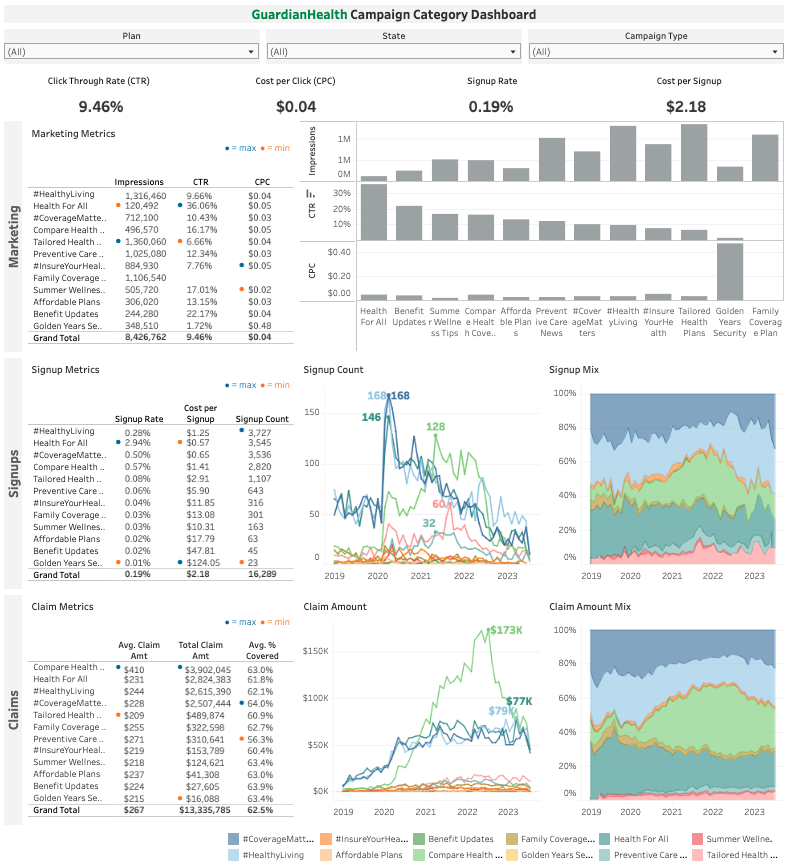
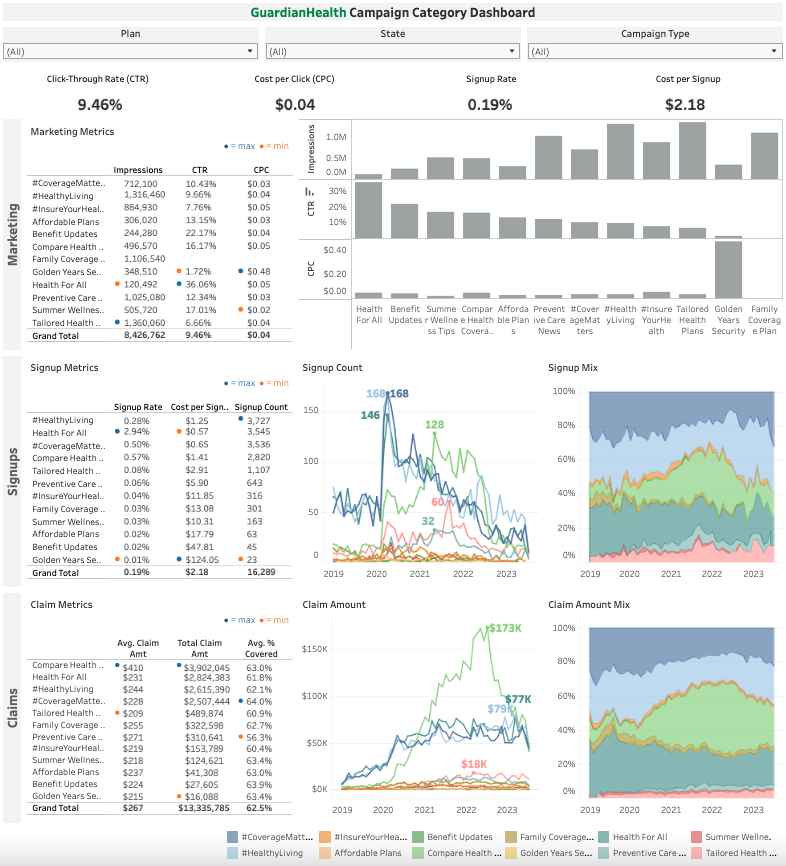
update README, dashboard snapshot

diff --git a/README.md b/README.md
@@ -9,7 +9,6 @@ A link to the interactive dashboard is [here](https://public.tableau.com/app/pro
   <img width="120%" src="imgs/dashboard_overview.png"><br>
 </p>
 
-
 ## Dataset Structure
 
 The dataset contains 49,998 records across 3 tables, as shown in the ERD below. 
@@ -18,7 +17,6 @@ The dataset contains 49,998 records across 3 tables, as shown in the ERD below.
   <img width="50%" src="imgs/guardianhealth_erd.png"><br>
 <sub>Entity relationship diagram (ERD) of GuardianHealth's marketing data.</sub>
 </p>
-
 
 ## North Star Metrics
 * Click-through rate (CTR)
@@ -30,7 +28,34 @@ The dataset contains 49,998 records across 3 tables, as shown in the ERD below.
 * Claim amount (average and total)
 
 ## Summary of Insights
-[work in progress]
+
+### Marketing metrics: Click-Through Rate, Cost per Click, and Impressions
+* Across all plans, the *Health For All* campaign category has the **highest click-through rate at 36%**, far surpassing the average CTR of 9.5%, even though it has the **lowest number of total impressions** across categories at 120K impressions. 
+
+* The *Golden Years Security* campaign category has the **lowest CTR at 1.7%**; due to its low number of clicks, in proportion to the cost of the campaign, it has an **abnormally high cost per click value of $0.48**. The rest of the campaigns appear to be more appropriately budgeted, all having CPCs ranging from $0.02 - $0.05. 
+
+* The top 4 campaign categories that broke **1M+ in impressions** are *Tailored Health Plans, #HealthyLiving, Family Coverage Plan,* and *Preventive Care News*.
+
+### Signup metrics:
+* *Health For All* had the **highest signup rate across cateogries at ~3%** -- substantially higher than the average signup rate of 0.19% -- and lowest cost per signup. *Golden Years Security* had the **lowest signup rate at 0.01%** and its cost per signup at $123 is more than **an order of magnitude higher than the average** across all categories. 
+
+* Many categories saw a significant spike in signups at the start of the pandemic. 3 categories (*#CoverageMatters, #HealthyLiving, Health For All*) drove record-high signups in April 2020 and accounted for the majority of signups early in the pandemic, while categories like *Compare Health Coverage* and *Tailored Health Plans* reached record-high signups later in the pandemic and drove a greater share of signups in the second half of 2021. This may potentially reflect customers' shifting healthcare coverage preferences throughout the pandemic, from a focus on comprehensive coverage in the early stages of the pandemic to more interest in personalization and choice in the later stages.  
+
+* While the pandemic helped to boost signups, signup counts from most categories significantly decreased starting in mid-2022, and falling to levels below pre-pandemic values. The *#Coverage Matters* and *#HealthyLiving* marketing categories appear to be more resilient to post-pandemic downward trends, accounting for the bulk of signups (~58%) in recent months. 
+
+### Claim metrics:
+* Claim amounts rose at the start of the pandemic and have remained steady over time across most campaign categories, with the notable difference being claims from customers marketed through the *Compare Health Coverage* campaign. The total claim amounts submitted by these customers steadily increased throughout 2021 and into 2022, reaching a record-high of $173K in July 2022 before significantly decreasing in the following months. These customers submitted the **most expensive claims on average at $410 per claim**, ~50% higher than the average claim amount of $267.  
+
+* Bronze plans offer the lowest average claim coverage rate at 51%, followed by silver (62%), gold (71%), and platinum (80%). **Silver plans are the most popular plan type** and silver plan customers account for 85% of the total amount claimed to-date.
 
 ## Recommendations
-[work in progress]
+* *Double down on winning campaigns*: The *Health For All* campaign has the highest CTR, signup rate, and lowest cost per signup; increase budget allocation for this campaign category and consider ways to increase its reach (e.g., different marketing channels, targeting broader demographics). Maintain or increase budget allocation for *#CoverageMatters* and *#HealthyLiving* categories, given they show post-pandemic resilience in signups and currently capture a large portion of new customers. Investigate reasons for *Health For All*'s high CTR and apply those findings to improve other campaign categories, particularly those with high impression counts.  
+
+* *Revamp underperforming campaigns*: The *Golden Years Security* campaign has the lowest CTR, signup rate, and highest cost per signup. Explore ways to boost engagement by adjusting targeted demographic (e.g., focusing on specific age group or health conditions) and/or marketing channel -- social media may not be the best fit for this audience; consider perhaps partnering with senior citizen organizations. 
+
+* *Post-pandemic retention*: Investigate reasons for the post-pandemic signup decline across categories and consider implementing plan features to attract new customers.
+
+* *Develop campaigns highlighting preventative care strategies*: Customers driven through the *Compare Health Coverage* campaign have the highest average claim amounts -- analyze their demographics and health needs to ensure this campaign is not attracting a customer base with higher risk profiles than anticipated. Consider incorporating messaging that promotes preventive care services to potentially lower future claim amounts. 
+
+## Credits
+* ERD was created with [dbdiagram.io](https://dbdiagram.io/). 
